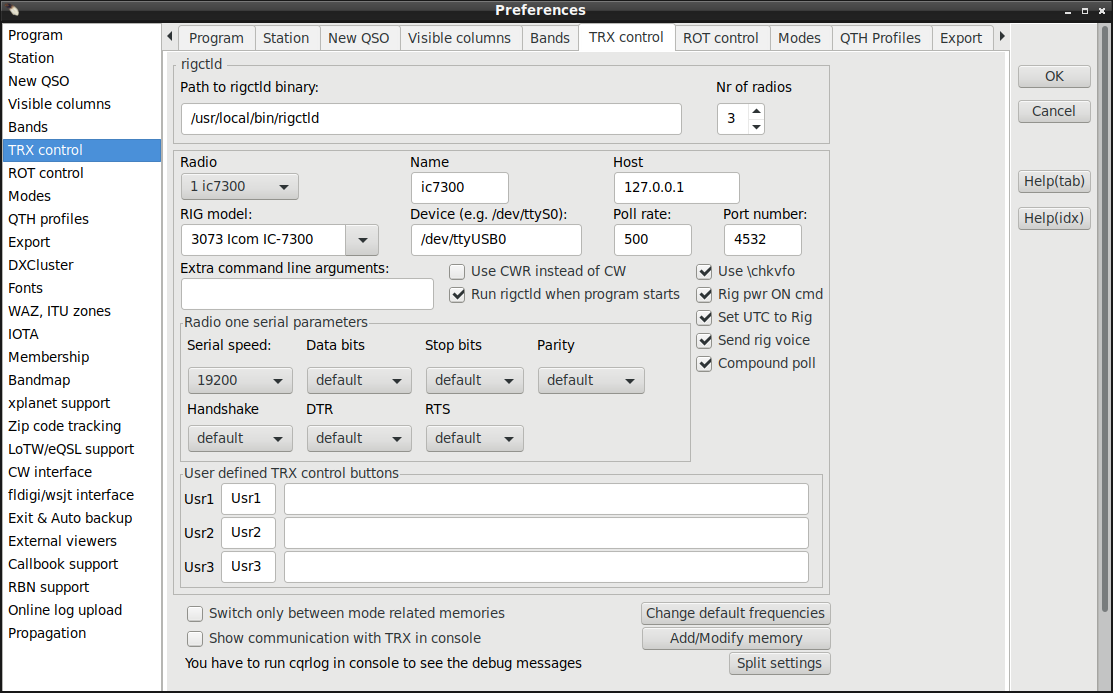
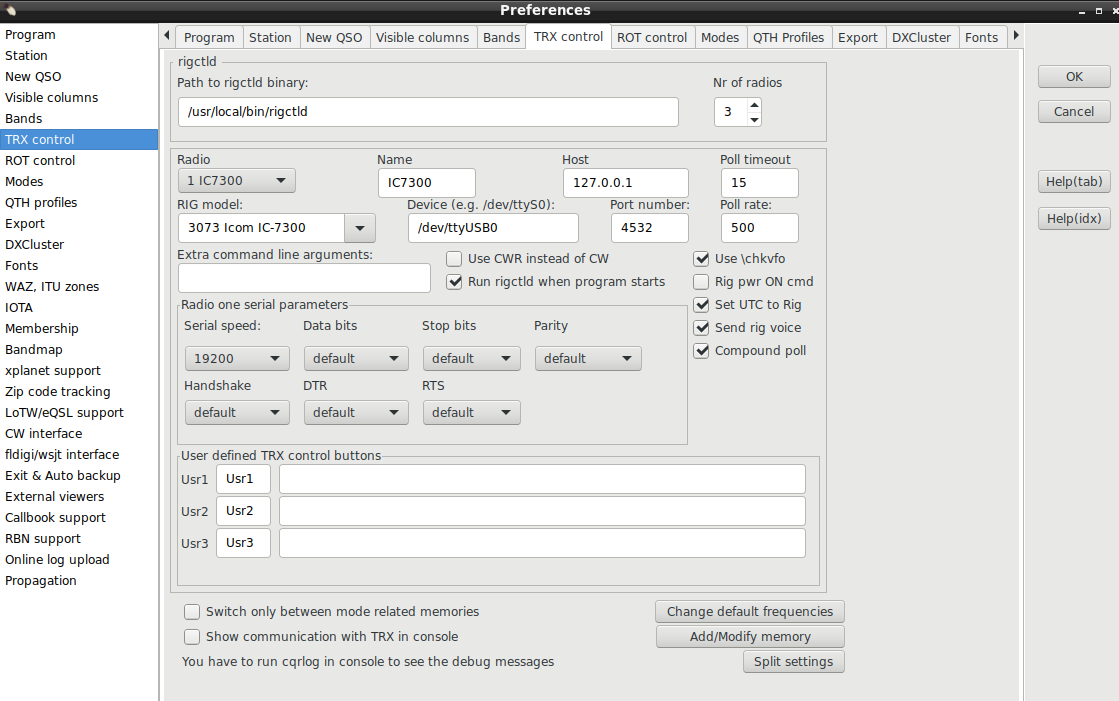
RigControl:Add: user adjustable poll timeout

diff --git a/src/changelog.html b/src/changelog.html
@@ -12,6 +12,7 @@
     What is new:
     <ul style="list-style: square;text-align:left; color: green;" >
     <li>(136)</li><ul>
+    <li>RigControl:Add: user adjustable poll timeout</li>
     <li>RigControl:Fix: some code fixing</li>
     <li>NewQSO:Pwr:Fix: when 'use rig pwr' update Pwr with rig frequency/mode</li>
     <li>TRXControl/Rigcontrol:Fix: reverting back to one rigctld connection system. More stable. Still needs testing!</li>
@@ -38,7 +39,7 @@
     <li>Preferences:Bands:Frequencies:SetModeBorders:Add:  Added Help button that opens help picture</li>
     <li>BandMap:Fix: double click releases 'Paused' and focus NewQSO</li> 
     <li>RBNMonitor:Fix: Remove 'Paused' text (in all cases) when pause is released</li>
-    </ul><li>(135)</li><ul>
+    </ul><li>(135) 2025-03-01</li><ul>
     <li>About:Fix: changelog view</li>
     <li>NewQSO:Fix: check grid and enable LocMap button (if ok) when new call entered</li>
     <li>NewQSO:Mode selector:Fix: changed mode THORB -> THRB that is ardif.org standard.</li>
@@ -115,12 +116,12 @@
     <li>Preferences:Bands: Frequencies:Fix: Better mode definition with DXClcluster spots</li>
     <li>New Log:Fix: Use Changelog splash also as New Log splash</li>
     <li>Contest:Add: Checkbox NS. When checked NRs/NRr can contain letters. Fos special use, not ADIF std. compatible</li>	
-    </ul><li>(134)</li><ul>
+    </ul><li>(134) 2024-12-03</li><ul>
     <li>NewQSO:Fix: This fixes MainMenu's "autoclose" bug when compiled with QT6
     <br>This is not happening with QT5 and GTK2 but fix suits for all compiles and is so important
     <br>that it is time of new version number release.</li>
     <li>TRXControl:Add:Frequency/mode bar (more or less candy...)</li>
-    </ul><li>(133)</li><ul>
+    </ul><li>(133) 2024-12-01</li><ul>
     <li>About:New tab Upgrade (when new version available)</li>
     <li>Wsjtx monitor:Fix: Fixed scrolling and line-graying timer init</li>
     <li>Bandwidth:Fix:Setting wanted bandwidth (from preferences/modes)</li>
@@ -156,7 +157,7 @@
     <li>NewQSO:Add:Shorcut key Ctrl+Shift+O toggle Offline checbox.</li>
     <li>NewQSO:Fix:Cleaned source code at formKeyPressed</li>
     <li>NewQSO:Fix:Enter Freq (Alt+F) entering frequency exit suggests mode by frequencies/modes table</li>
-    </ul><li>(132)</li><ul>
+    </ul><li>(132) 2024-11-01</li><ul>
     <li>First_start:Fix: Fixed bug that caused log database location select to freeze </li>
     <li>TRXConrol:ADD/Modify radio memories:Fix: Allow -1 input for bandwidth (rigctld M &lt;mode&gt; -1 = keep current bandwidth)</li>	
     <li>QsoList:Create filter:Fix: Fixed filter clear so that button 'Clear' does not do it. Instead pressing OK after filter is cleared does the S+F12.<BR>
@@ -166,7 +167,7 @@
     <li>Backup:Add:3rd option:'Custom file name' for autobackup. (Tnx: Bill WK2X)</li>
     <li>Group Edit:Selected qsos:Add: Checkbox to keep selection after edit allowing other edits with same selection<br>
 	 How ever QSOlist view is then not updated after edit(s).</li>
-    </ul><li>(131)</li><ul>	
+    </ul><li>(131) 2024-10-03</li><ul>	
     <li>CqrlogAlpha:Add: Checkbox for allow checking new Alpha version (Preferences/Program)</li>
     <li>CqrlogAlpha:Add: Check version against compiled version available at GitHub</li>
     <li>Wsjtx monitor:Map mode:Fix Locator alert also for non CQ messages where new locator exist</li>
@@ -182,7 +183,7 @@
     <li>NewQSO:DXCCinfoText:WsjtRemote:Fix:Fixed DXCC info text (above DXCC) when Wsjt remote on.<br>
 	Preferences:LoTW/eQSL support:Fix: Use LoTW and eQSL confirmed in NewQSO:DXCC info text.<br>
 	(used only LoTW, no eQSL)</li>
-    </ul><li>(130)</li><ul>
+    </ul><li>(130) 2024-09-01</li><ul>
     <li>Qso list:File:Add: Export selected qso(s) as ADIF</li>
     <li>Filter:Fix: Window sizeable </li>
     <li>DXCC Satistics: Fix: Bottom panel layout again. Better for QT6version</li>
@@ -191,7 +192,7 @@
     <br>This needs still checking what happens when dark mode is used</li>
     <li>CW setup:Fix: Init when keyer is selected as 'none'</li>	
     <li>CW keyer setups: New setups for keyers</li>
-    </ul><li>(129)</li><ul>
+    </ul><li>(129) 2024-08-01</li><ul>
     <li>Contest: Delay score counting at form show and shut down score counting timer at form close (tnx Stefan, DG0OAT)</li>
     <li>DXCC statistic:Fix: With user selected mode WKD and CFM count by band were same</li>
     <li>BandMap filter layout fix</li>
@@ -199,16 +200,16 @@
     <li>NewQSO:Qso from DXCluster spot:Tried to get statistic grid to have right coloring</li>
     <li>WSJT remote: Removed dynamic polling speed.Modern comuters can do hiSpeed all the time</li>
     <li>NewQSO:Qso count: Fix small bug</li>
-    </ul><li>(128)</li><ul>
+    </ul><li>(128) 2024-06-25</li><ul>
     <li>NewQSO:Edit from WB4 grid:Fix: Saving edited qso changed data to wrong qso. (Tnx: Stefan, DG0OAT)</li>
     <li>Fix:NewQSO/File/Tune stop when using cwdaemon</li>
-    </ul><li>(127)</li><ul>
+    </ul><li>(127) 2024-06-01</li><ul>
     <li>Add:Startup with parameter -q or --quiet to disable splash</li>
     <li>Add:Qso list:File:Backup log: Calls same backup as on program close. 
     <br>Fix:Backup: Passes by ADIF standard of submodes(import_only) to keep cqrmode as written.</li>
     <li>Fixed mode selector contents and ADIF export routine.</li>
     <li>Build: Enable building with QT6 (lazarus 3.x needed). This is still in test phase. (Tnx: George N3GB)</li>
-    </ul><li>(126)</li><ul>
+    </ul><li>(126) 2024-05-09</li><ul>
     <li>Fix: Hopefully fixed random 'Transaction already active' error</li>
     <li>DXCCStat/dDXCC:Fix a bug and create own query and transaction</li>
     <li>NewQSO:DXCC & Call statistic:Fix: create own query and transaction</li>
@@ -224,7 +225,7 @@
     <li>Some of compiler warnings fixed. Some member lists updated</li>
     <li>ADIF:import:Fix: Parsing error with tags having UTF8 characters</li>
     <li>Preferences:Membership:Load:Fix: Error message more informative. Helps finding error line from long membership text file</li>
-    </ul><li>(125)</li><ul>
+    </ul><li>(125) 2024-03-25</li><ul>
     <li>Contest:F1-key:Add: When in run mode-cw and call column is empty sends F1-run-memory (reserverd for CQ).
     <br>When call column is not empty sends Call column (uncomplete callsign)</li>
     <li>Contest:ESC:Phone modes:Fix: Fixed 1st ESC to send StopVoice rigctld command</li>
@@ -239,7 +240,7 @@
     <li>NewQSO/Satellte/Fix: checkbox "Rx LO" follows "Use split TX freq" checkbox. Split TX frequency is not shown if rig split is not active</li>
     <li>CW Type:Memory buttons:Fix: scaling of buttons</li>
     <li>Small redesign of "CW Type" window</li>
-    </ul><li>(124)</li><ul>
+    </ul><li>(124) 2024-03-01</li><ul>
     <li>Online logs:Add: SAT_NAME and SAT_MODE adif tags added to qso upload data </li>	
     <li>Qso list/Search:Fix: Tried to fix Search function, hopefully did not make any new bugs</li>
     <li>QSL:Label printing:Fix: QSL via valid detecting. Add: open exported label-file button</li>	
@@ -252,7 +253,7 @@
     <li>Changelog/About:Fix: Layout fix. Contest:fix:Contest name free typing fix</li>
     <li>Preferences:TRX/ROTcontrol: When path to rigctl/rotctl is fixed immediately load list of models to rig/rot selector</li>
     <li>NewQSO:Fix Improved columns 'type in' NonASCII filter</li>
-    </ul><li>(123)</li><ul>
+    </ul><li>(123) 2024-02-03</li><ul>
     <li>Gridmap:Fix: Removed critical sections added when hunting "sum" error splash. Caused more errors.</li>
     <li>NewQSO&Contest:Fix several bugs in columns 'type in' filters. (Tnx info: Peter,NN9K)
     <li>Adif import/eQSL&LoTWDownload: eQSL seems to send adif tag data that may contain charactes not in (space)..(~) range against adif standard.
@@ -261,7 +262,7 @@
     <li>Preferences/NewQSO:Add checkbox to select nickname or fullname from callbook. Capitalize first letter of Name and Qth (only when typing in)</li>
     <li>NewQSO:CallisgnStatus:Fix: changed seek only for callsign. Previous was callsign and adif (=country dxcc number)
 	<br>should now work even if old loggings have different adif than todays adif is for callisgn</li>
-    </ul><li>(122)</li><ul>
+    </ul><li>(122) 2024-01-30</li><ul>
     <li>eQSL+LoTW download:Fix: error files are now written and error StringList cleared
         <br> every time (append) when error qso is found. This should help SringList overflow
 	<br> on extreme big downloads having lots of errors to write. </li>
@@ -300,7 +301,7 @@
     <li>NewQSO/Contest:Fix: If Ctrl+A pressed when no rig and NewQSO/Freq column empty caused 'invalid float' error</li>
     <li>Locator write:Fix: Fixed locator writing to prevent false locator inputs</li>
     <li>Preferences:Profiles:Add/Edit:Fix: Window anchoring and sizing to view buttons on QT5version</li>
-    </ul><li>(121)</li><ul>
+    </ul><li>(121) 2023-12-24</li><ul>
     <li>WSJT remote:USt:Fix: If checkbox USt is checked fixes state with Hawaii calls that are reported to be in mainland by FCC data
     <br> Note: This does not change logged qso's ITU/WAZ/DXCC/STATE it is just Wsjt monitor information</li>
     <li>Contest:'Set filter':Add: When filter is checked right mouse click opens quick export menu</li>
@@ -316,7 +317,7 @@
     <li>Contest:Fix:Remembers "MSG s" over Cqrlog restart. Remembers if Contest wondow was open over restart.</li>
     <li>WSJT remote:Contest:EU Vhf:EXCH rcvd:Fix: Locator from received message is now opied also to NewQSO/Grid. Affects NAC Contest score counting</li>
     <li>Qso list:Fix:Dark themes by Bill,WK2X</li>
-    </ul><li>(120)</li><ul>
+    </ul><li>(120) 2023-12-01</li><ul>
     <li>WsjtxMonitor:States (USt): Fix: Can use either FCC's l_amt.zip or W1NR usdbraw as source</li>
     <li>Start:MASTER.SCP:Fix: Dynamic array sizing by Bill,WK2X</li>
     <li>RigControl:Fix: Clear RIT command had a typo. Fixed and now working. Tnx Thomas, EA5AKM, for finding this out.</li>	
@@ -336,7 +337,7 @@
     <li>Contest: Common Status display improvements. Band grid. Current band gets yellow background. </li>
     <li>Contest: Common Status display improvements. Band (& current rigmode if selected) based grid with selected counters. (Early test phase!). 
 	<br>Some save/load extension fixes.</li>
-    </ul><li>(119)</li><ul>
+    </ul><li>(119) 2023-10-04</li><ul>
     <li>QSO list: Fix display of #QSOs and #DXCC cfmd when using dark theme</li>
     <li>eQSL download: Fixed the stuck up caused by eQSL starting to add one more empty line at the end of downloaded file</li>
     <li>Contest: Inform remote mode 'on' when saving manual entered qso. Multimode contests like<br>
@@ -344,7 +345,7 @@
 	Then entering qso manually looks like saved, but will never appear into log.	
     <li>Makefile: Clean fix (by Bill, WK2X)</li> 
     <li>Contest filter: If Contest window is open contest name is copied to filter</li>
-    </ul><li>(118)</li><ul>
+    </ul><li>(118) 2023-09-01</li><ul>
     <li>CW Messages: Fix to open/close when Contest window open and S&P not checked</li>
     <li>CW Messages: Added another set F1-F10 for Contest RUN mode</li>
     <li>RigControl: Update Hamlib error codes list </li>
@@ -367,7 +368,7 @@
     <li>Group edit warning color change for readability</li>
     <li>CW:Hamlib keyer: Should now detect Hamlib>=Jul-2023 that differs with CW commands</li>
     <li>Cabrillo export: Sets now suffix '.cbr' for filename as default</li>
-    </ul><li>(117)</li><ul>
+    </ul><li>(117) 2023-07-17</li><ul>
     <li>Preferences:TRXControl: Added checkbox 'compound poll' (default checked) When unchecked rig polling commands are sent each one on it's own line. This may help poor emulators like WFview.</li>
     <li>HamlibCW: Fixed StopSending procedure. Has now '+\stop_morse currVFO' that should work also other rigs than ts480 and Icoms and is implemented in rigctld at least from Jan2023</li> 
     <li>Callbook: CQRZCQ XML fixd and tested. Should be mostly ok now.</li>
@@ -402,7 +403,7 @@
     <br>With CW and Phone qsos this does not matter as times are usually same.
     <br>With FT8 qso takes longer and WSTX's (and N1MM's) exports are using time_off.
     <br>Now Cqrlog's export is equal to others.</li>
-    </ul><li>(116)</li><ul>
+    </ul><li>(116) 2023-05-13</li><ul>
     <li>Preferences: wsjt/fldigi: fixed hidden checkbox</li>
     <li>DXCluster: Added user defined command keys F1-F10 See help for details.</li>
     <li>WSJT remote: fixed contest logging. Remote name should have WSJT instead of being exactly WSJT-X.<br>
@@ -413,7 +414,7 @@
     <li>LoTW Import: Checkbox to change Rcvd date to current date after successfull download (tu: 4X6GP)</li>	
     <li>When creating a new log it is now possible to copy configuration automated from existing log<br>
 	(FYI: Configuration is log based)</li>
-    </ul><li>(115)</li><ul>
+    </ul><li>(115) 2023-04-13</li><ul>
     <li>Moved also solar data (propagation window) text address to user editable in preferences.</li>
     <li>Fixed solar data (propagation window) addresses from 'http' to 'https'</li>
     <li>Contest: Stores last used CQ frequency and mode when in Run. Click (or Ctrl+L) over reading resets rig to that freq+mode</li>
@@ -421,7 +422,7 @@
     <li>DXCluster: fixed response missing for "sh/he e6" (all prefixes E1..E9)</li>
     <li>Small view fix in RBN monitor header</li>
     <li>Small view fix in adif errorfile import</li>
-    </ul><li>(114)</li><ul>
+    </ul><li>(114) 2023-03-23</li><ul>
     <li>Added 8M and 5M bands</li>
     <li>Fixed radio memory loading/saving (tested with 12000 memories)</li>
     <li>Added search to radio memory list</li>
@@ -429,10 +430,10 @@
     <li>Fixed file open dialogs to check file exists. QT5 opendialog allowsuser to type filename and it needs checking</li>
     <li>Fixed DXCluster spot:Any of QSL, LoTW, eQSL received prints with confirmed color</li>
     <li>Fixed DXCluster font style saving/loading</li>
-    </ul><li>(113)</li><ul>
+    </ul><li>(113) 2023-03-01</li><ul>
     <li>Fixed wsjtx std messages clean when remote was set active</li>
     <li> Added option (from preferences) to show LoTW/eQSL users in wsjtx CQ-monitor</li>
-    </ul><li>(112)</li><ul>
+    </ul><li>(112) 2023-02-21</li><ul>
     <li>Fixed spot splitter a bit and cleaned DXCluster code too</li>
     <li>Clicking DXSpot line now sets wsjt std messages if wsjt-remote is active</li>
     <li>Rewritten DXCluster spot splitter because of faulty call grep</li>
@@ -449,27 +450,27 @@
     <li>Added missing 'OR' to Qso list/Qsl selection </li>
     <li>Fixed update QSO list view when Preferences/Visible columns change</li>
     <li>Fixed bug in Qsolist/View/Show Details checbox visibility</li>
-    </ul><li>(111)</li><ul>	
+    </ul><li>(111) 2023-02-07</li><ul>	
     <li>Fixed bug in preferences/Online log edited and saved urls could not be loaded</li>
-    </ul><li>(110)</li><ul>
+    </ul><li>(110) 2023-02-01</li><ul>
     <li>Added numeric divide-key to work in contest/call column</li>
     <li>Added End-key to work in contest/call column</li>
     <li>Added Home-key to work in contest/call column</li>
     <li>Changed CQmonitor/Mapmode worked locator color printing<br>
 	Should now respond better to true situation of current band</li> 
     <li>Removed one debug print from rigcontrol</li>	
-    </ul><li>(109)</li><ul>
+    </ul><li>(109) 2023-01-22</li><ul>
     <li>Fixed numkeypad in contest/callsign/gtk2, QT5 was already working</li>
     <li>RBNmonitor: Added source callsign filter</li>
     <li>Removed small change to "remove all upload triggers". No good<br>
 	Instead added warnings for use with more than on online log</li>
-    </ul><li>(108)</li><ul>
+    </ul><li>(108) 2023-01-21</li><ul>
     <li>Very small change to "remove all upload triggers". Helps? </li>
     <li>Fixed startup rig power on with rig models below 10, mainly for mod #2</li>
     <li>Fixed Cabrillo export to have adjustable RST fields</li>
     <li>Fixed TAB key funtion in Contest window</li>
     <li>Added Contest/msg multipliers count and list by contest bands</li>
-    </ul><li>(107)</li><ul>
+    </ul><li>(107) 2023-01-10</li><ul>
     <li>Added cache write while preferences closing. Speeds up %50</li>
     <li>Added retry counter for rigctld connecting.</li>
     <li>Updated sat_names.tab (from Florian,DF2ET)</li>

diff --git a/help/h1.html b/help/h1.html
@@ -246,6 +246,7 @@
     <br>roll over CW and SSB segments. FM can roll over AM and DATA can roll over FM (or AM) if overlapping.        
     <br>
 <p align=center><img src=img/line.png></p>
+</div>
 <a name=ah7><h2><strong>TRX Control</strong></h2></a>
 <img src=img/h10.png border=0><br><br>
 
@@ -271,8 +272,8 @@
     <ul><li><strong>Note: </strong>If you have 3 rigs and you delete rig #2 Cqrlog does not reorder selection list. Your rig #3 stays as 3rd in 
     selector list and #2 becomes "None"
     </ul></li>
-    <strong>Host:</strong> computer where rigctld is running, localhost is fine for most cases but can be IP address of another computer where
-    rigctld is running (I.E. even over local network or internet) <br><br>
+    <strong>Host:</strong> computer where rigctld is running, 'localhost' is fine for most cases but some Linux versions defaults 'localhost' to IPv6 address ::1 and it may not work. Using '127.0.0.1' instead makes sure that IPv4 localhost is used.
+    <br> Host can also be IP address of another computer where rigctld is running (I.E. over local network or even internet) <br><br>
     <strong>RIG model:</strong> choose your radio model from the list.
     <br> Rig models below 10 (Dummy, NET rigctld, FLRig, TRXManager) are using TCP communication and so the <strong>Device</strong> as well
      as <strong>Radio serial parameters</strong> do not need settings.
@@ -286,11 +287,14 @@
     like it often happens if you reorder USB wires in PS's sokets.
     <br>(I.E my ci7300 shows out as /dev/serial/by-id/usb-Silicon_Labs_CP2102_USB_to_UART_Bridge_Controller_IC-7300_03003483-if00-port0  )
     </li></ul>
-    <strong>Poll rate:</strong> specifies how often CQRLOG should read data from rigctld. 500 milliseconds is defaut. 
-    If your rig is old and slow values 1000 - 3000 may work better.
-    <br><br>
     <strong>Port number</strong> is the number of the port used to communicate with rigctld.
     Default value of rigctld is 4532.
+    <br><br>
+    <strong>Poll Timeout:</strong> specifies how many poll rounds Cqrlog will wait for rig's answer to last issued rigctld command.
+    Timeout in milliseconds is (Poll Timeout * Poll rate).
+    <br><br>
+    <strong>Poll rate:</strong> specifies how often CQRLOG should read data from rigctld. 500 milliseconds is defaut. 
+    If your rig is old and slow values 1000 - 3000 may work better. With modern rig and computer poll rate of 100 - 300 should work OK.
     <br><br>
     <strong>Extra command line arguments</strong> usefull when you have to specify more parameters to
     rigctld. E.g. CIV address (--civaddr=ID, where ID is the CIV address) or similars. See rigctld man page for supported parameters.
